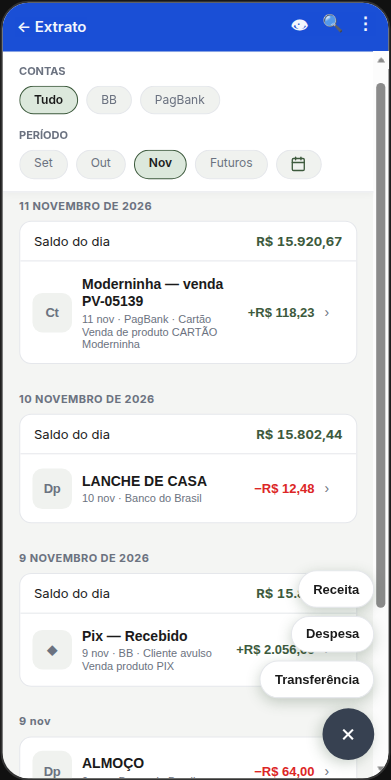
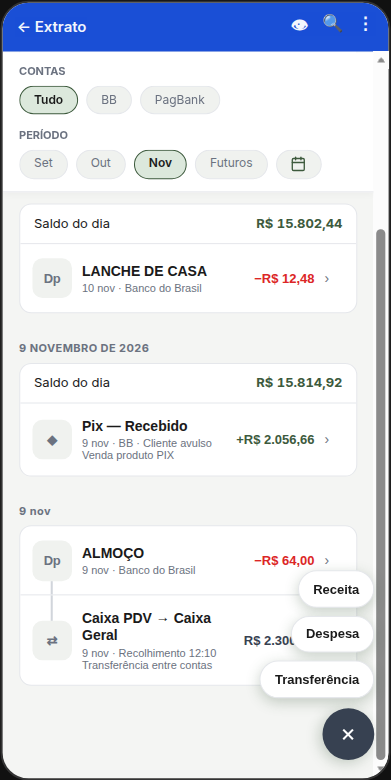
docs(prototypes): barra verde, ícones Lucide nas linhas, utilidades

diff --git a/docs/prototypes/fluxo-caixa-extrato-prototype.html b/docs/prototypes/fluxo-caixa-extrato-prototype.html
@@ -210,8 +210,19 @@
       justify-content: center;
       font-size: 18px;
       background: var(--chip-bg);
+      color: var(--text-muted);
+    }
+    .shortcut-icon svg {
+      width: 20px;
+      height: 20px;
+      stroke: currentColor;
+      fill: none;
+      stroke-width: 2;
+      stroke-linecap: round;
+      stroke-linejoin: round;
     }
     [data-theme="light"] .shortcut-icon { background: #e2ebe2; color: var(--income); }
+    [data-theme="dark"] .shortcut-icon { background: #383e47; color: var(--income); }
 
     /* ——— Modo claro: app bar fixa + collapse no scroll (BB) ——— */
     [data-theme="light"] .extrato-app-bar {
@@ -220,7 +231,7 @@
       align-items: center;
       justify-content: space-between;
       padding: 10px 14px;
-      background: #1a4fd6;
+      background: var(--hero);
       color: #fff;
       font-size: 15px;
       font-weight: 600;
@@ -331,7 +342,7 @@
 
     [data-theme="light"] .hero-collapsible {
       overflow: hidden;
-      max-height: 380px;
+      max-height: 440px;
       opacity: 1;
       transition: max-height 0.38s ease, opacity 0.28s ease;
       will-change: max-height, opacity;
@@ -444,15 +455,22 @@
       display: flex;
       align-items: center;
       justify-content: center;
-      font-size: 13px;
-      font-weight: 700;
-      letter-spacing: -0.02em;
       color: var(--text-muted);
       position: relative;
       z-index: 1;
     }
+    .tx-icon svg {
+      width: 20px;
+      height: 20px;
+      stroke: currentColor;
+      fill: none;
+      stroke-width: 2;
+      stroke-linecap: round;
+      stroke-linejoin: round;
+    }
+    [data-theme="light"] .tx-icon { color: var(--income); background: #e8efe8; }
     [data-theme="dark"] .tx-icon {
-      color: #b8bcc4;
+      color: var(--income);
       background: #383e47;
     }
     .tx-row::before {
@@ -633,6 +651,34 @@
                     <span class="hero-pill">Detalhar saldo</span>
                   </div>
                 </div>
+                <div class="shortcuts-wrap">
+                  <div class="shortcuts util-shortcuts">
+                    <button type="button" class="shortcut" title="Buscar lançamentos">
+                      <span class="shortcut-icon" aria-hidden="true">
+                        <svg viewBox="0 0 24 24"><circle cx="11" cy="11" r="8"/><path d="m21 21-4.3-4.3"/></svg>
+                      </span>
+                      Busca
+                    </button>
+                    <button type="button" class="shortcut" title="Relatórios — balancete e extrato">
+                      <span class="shortcut-icon" aria-hidden="true">
+                        <svg viewBox="0 0 24 24"><path d="M6 18V4a2 2 0 0 1 2-2h8a2 2 0 0 1 2 2v14"/><path d="M6 18h12"/><path d="M10 6h4"/><path d="M10 10h4"/><path d="M10 14h4"/></svg>
+                      </span>
+                      Relatórios
+                    </button>
+                    <button type="button" class="shortcut" title="Exportar extrato">
+                      <span class="shortcut-icon" aria-hidden="true">
+                        <svg viewBox="0 0 24 24"><path d="M12 15V3"/><path d="m7 10 5 5 5-5"/><path d="M20 21H4"/></svg>
+                      </span>
+                      Exportar
+                    </button>
+                    <button type="button" class="shortcut" title="Filtros avançados">
+                      <span class="shortcut-icon" aria-hidden="true">
+                        <svg viewBox="0 0 24 24"><path d="M10 5H3"/><path d="M12 19H3"/><path d="M14 3v4"/><path d="M16 17v4"/><path d="M21 12h-9"/><path d="M21 19h-5"/><path d="M21 5h-7"/><path d="M8 10v4"/><path d="M8 12H3"/></svg>
+                      </span>
+                      Filtros
+                    </button>
+                  </div>
+                </div>
                 <p class="hero-dica">Dica: Presença no Mercado — desbloqueie seu potencial com Open Finance ›</p>
               </div>
               <div class="filters filters--sticky">
@@ -697,6 +743,34 @@
                 <span class="hero-pill">3 contas selecionadas</span>
               </div>
             </div>
+            <div class="shortcuts-wrap">
+              <div class="shortcuts util-shortcuts">
+                <button type="button" class="shortcut" title="Buscar lançamentos">
+                  <span class="shortcut-icon" aria-hidden="true">
+                    <svg viewBox="0 0 24 24"><circle cx="11" cy="11" r="8"/><path d="m21 21-4.3-4.3"/></svg>
+                  </span>
+                  Busca
+                </button>
+                <button type="button" class="shortcut" title="Relatórios">
+                  <span class="shortcut-icon" aria-hidden="true">
+                    <svg viewBox="0 0 24 24"><path d="M6 18V4a2 2 0 0 1 2-2h8a2 2 0 0 1 2 2v14"/><path d="M6 18h12"/><path d="M10 6h4"/><path d="M10 10h4"/><path d="M10 14h4"/></svg>
+                  </span>
+                  Relatórios
+                </button>
+                <button type="button" class="shortcut" title="Exportar">
+                  <span class="shortcut-icon" aria-hidden="true">
+                    <svg viewBox="0 0 24 24"><path d="M12 15V3"/><path d="m7 10 5 5 5-5"/><path d="M20 21H4"/></svg>
+                  </span>
+                  Exportar
+                </button>
+                <button type="button" class="shortcut" title="Filtros">
+                  <span class="shortcut-icon" aria-hidden="true">
+                    <svg viewBox="0 0 24 24"><path d="M10 5H3"/><path d="M12 19H3"/><path d="M14 3v4"/><path d="M16 17v4"/><path d="M21 12h-9"/><path d="M21 19h-5"/><path d="M21 5h-7"/><path d="M8 10v4"/><path d="M8 12H3"/></svg>
+                  </span>
+                  Filtros
+                </button>
+              </div>
+            </div>
             <div class="filters">
               <div class="chips">
                 <span class="chip on">Tudo</span>
@@ -743,7 +817,7 @@
         data: '11 nov',
         dataFull: '11 NOVEMBRO DE 2026',
         saldoDia: 15920.67,
-        icon: 'Ct',
+        iconKind: 'card',
         title: 'Moderninha — venda PV-05139',
         meta: '11 nov · PagBank · Cartão',
         desc: 'Venda de produto CARTÃO Moderninha',
@@ -765,7 +839,7 @@
         data: '10 nov',
         dataFull: '10 NOVEMBRO DE 2026',
         saldoDia: 15802.44,
-        icon: 'Dp',
+        iconKind: 'bank',
         title: 'LANCHE DE CASA',
         meta: '10 nov · Banco do Brasil',
         valor: 12.48,
@@ -786,7 +860,7 @@
         data: '9 nov',
         dataFull: '9 NOVEMBRO DE 2026',
         saldoDia: 15814.92,
-        icon: '◆',
+        iconKind: 'bank',
         title: 'Pix — Recebido',
         meta: '9 nov · BB · Cliente avulso',
         desc: 'Venda produto PIX',
@@ -806,7 +880,7 @@
       {
         id: '4',
         data: '9 nov',
-        icon: 'Dp',
+        iconKind: 'bank',
         title: 'ALMOÇO',
         meta: '9 nov · Banco do Brasil',
         valor: 64.0,
@@ -817,7 +891,7 @@
       {
         id: '5',
         data: '9 nov',
-        icon: '⇄',
+        iconKind: 'transfer',
         title: 'Caixa PDV → Caixa Geral',
         meta: '9 nov · Recolhimento 12:10',
         desc: 'Transferência entre contas',
@@ -838,6 +912,18 @@
 
     const fmt = (n) =>
       n.toLocaleString('pt-BR', { style: 'currency', currency: 'BRL' });
+
+    const TX_ICON_SVG = {
+      card: '<svg viewBox="0 0 24 24" aria-hidden="true"><rect width="20" height="14" x="2" y="5" rx="2"/><path d="M2 10h20"/></svg>',
+      bank: '<svg viewBox="0 0 24 24" aria-hidden="true"><path d="M3 10h18"/><path d="M5 10V7l7-4 7 4v3"/><path d="M6 10v10"/><path d="M10 10v10"/><path d="M14 10v10"/><path d="M18 10v10"/><path d="M4 20h16"/></svg>',
+      transfer: '<svg viewBox="0 0 24 24" aria-hidden="true"><path d="m16 3 4 4-4 4"/><path d="M20 7H4"/><path d="m8 21-4-4 4-4"/><path d="M4 17h16"/></svg>',
+      cash: '<svg viewBox="0 0 24 24" aria-hidden="true"><rect width="20" height="12" x="2" y="6" rx="2"/><circle cx="12" cy="12" r="2"/><path d="M6 12h.01"/><path d="M18 12h.01"/></svg>',
+    };
+
+    function txIconHtml(kind) {
+      const key = TX_ICON_SVG[kind] ? kind : 'bank';
+      return `<span class="tx-icon" aria-hidden="true">${TX_ICON_SVG[key]}</span>`;
+    }
 
     function groupByDate(items) {
       const map = new Map();
@@ -879,7 +965,7 @@
       const cls = r.tipo === 'in' ? 'in' : r.tipo === 'out' ? 'out' : 'neu';
       return `
         <button type="button" class="tx-row" data-id="${r.id}">
-          <span class="tx-icon">${r.icon}</span>
+          ${txIconHtml(r.iconKind)}
           <span>
             <div class="tx-title">${r.title}</div>
             <div class="tx-meta">${r.meta}${r.desc ? '<br>' + r.desc : ''}</div>
